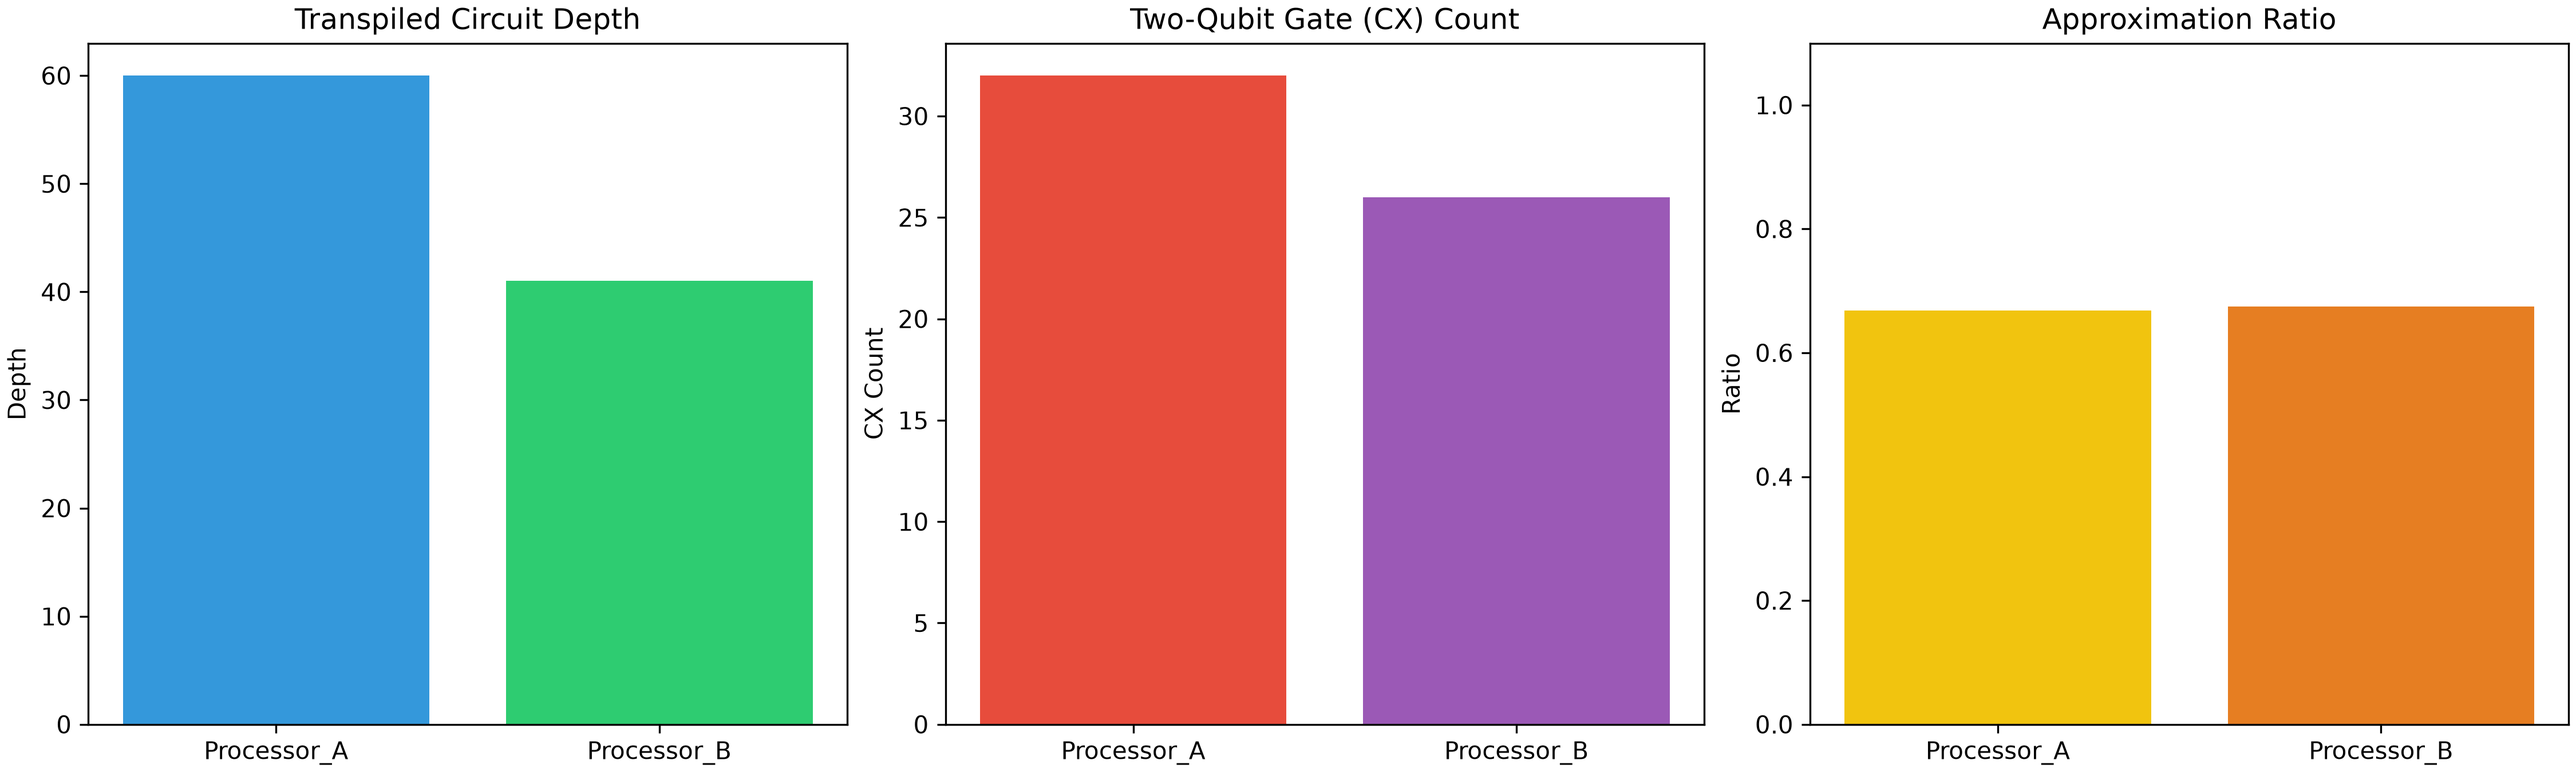
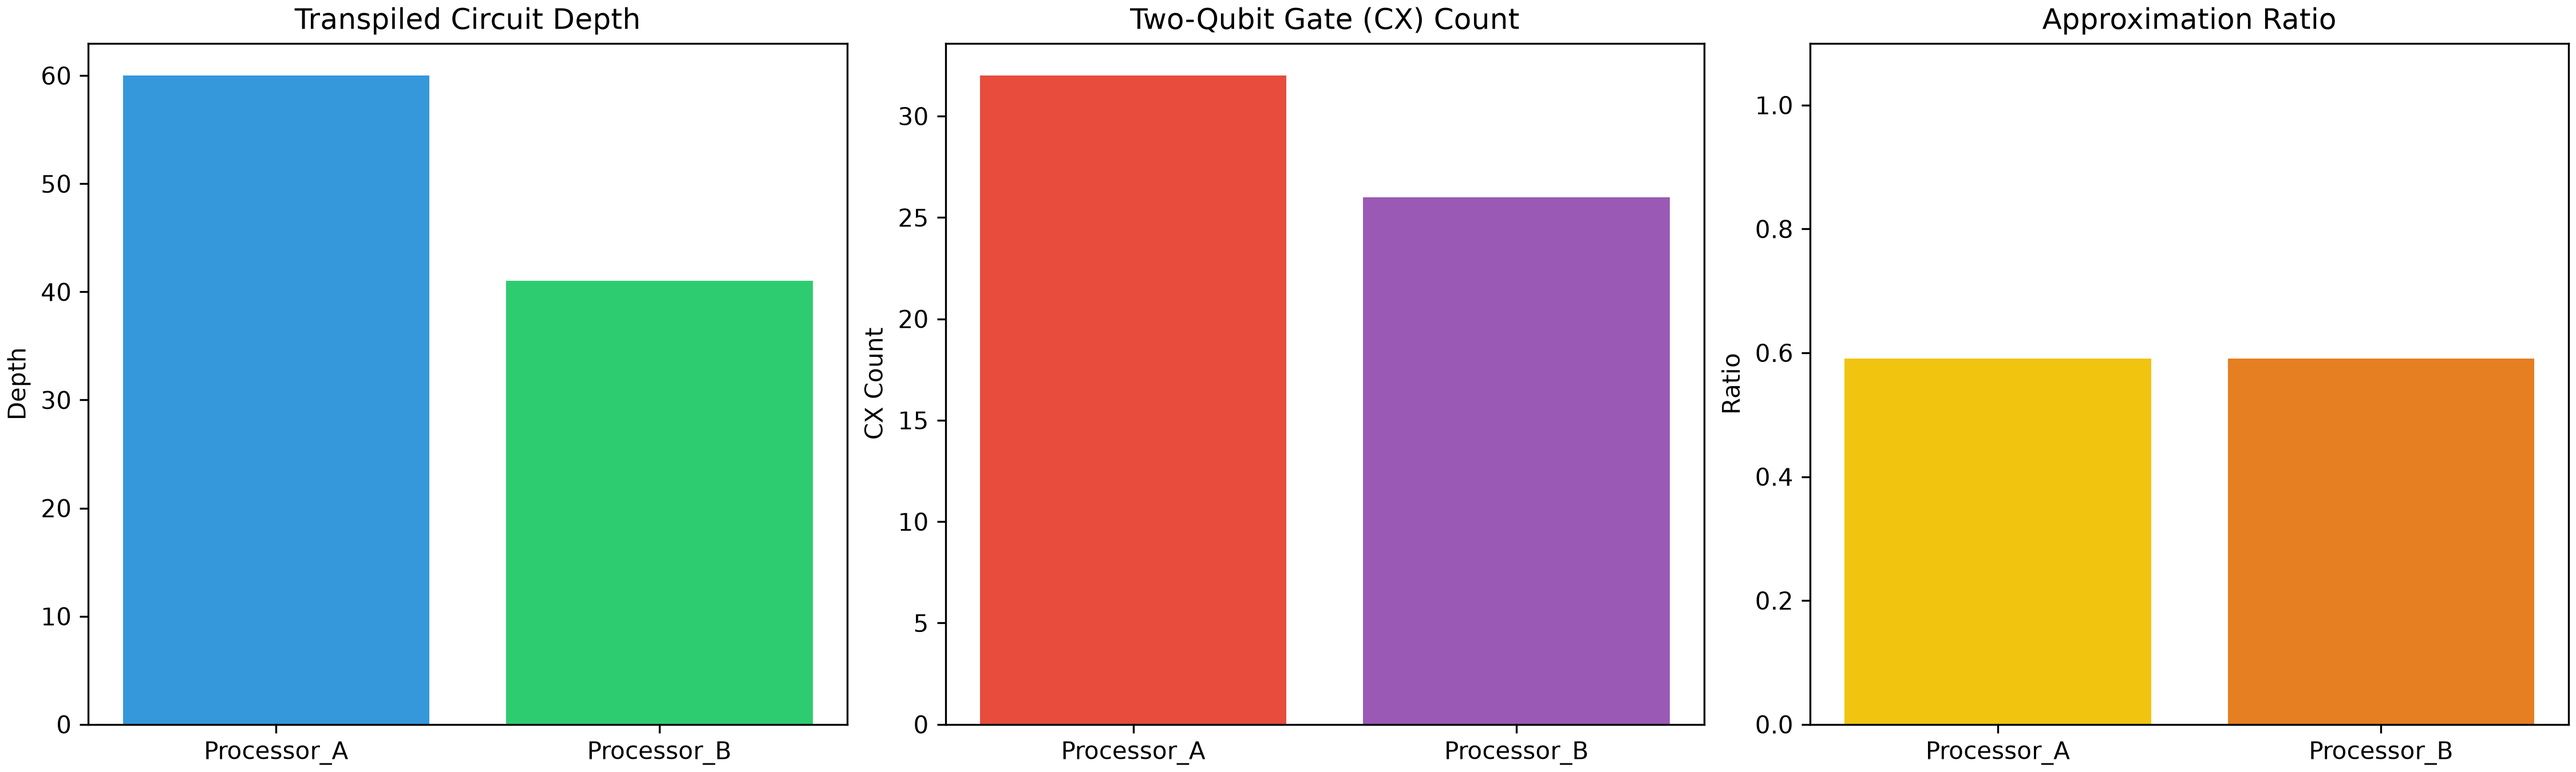
Final pre-submission polish: Inline report images and pre-executed notebook outputs

Changed region(s): [[0.7156, 0.3733, 0.9956, 0.4667]]

diff --git a/README.md b/README.md
@@ -39,7 +39,17 @@ mogumogu/
 │   └── visualization.py      # Plotting engine
 └── results/                  # Figures and benchmark tables
     ├── tables/
+    │   ├── architecture_comparison.csv
+    │   └── summary.json
     └── figures/
+        ├── processor_A_graph.png
+        ├── processor_B_graph.png
+        ├── A_vs_B_performance.png
+        ├── qaoa_convergence.png
+        └── state_distribution.png
+```
+
+---
 
 ## 4. Setup & Reproducibility
 
@@ -62,3 +72,41 @@ pip install -r requirements.txt
 
 # 4. Execute the complete automated benchmark pipeline
 python main.py
+```
+
+---
+
+## 5. Empirical Benchmark Results Summary
+
+### Exact Classical Reference Solution
+* **Brute-Force Optimal Value:** `26`
+* **Optimal Bitstring:** `11110` (Items 0, 1, 2, and 3 selected; total weight = $14 \le 15$)
+
+### Hardware Execution Comparison ($p=1$ QAOA with Readout Mitigation)
+
+| Metric | Processor A (5 Qubits) | Processor B (9 Qubits) | Delta / Impact |
+| :--- | :---: | :---: | :--- |
+| **Physical Qubits** | 5 | 9 (5 active) | Processor B maps onto a sub-graph of its 9-qubit lattice |
+| **Transpiled Circuit Depth** | 60 | 41 | **31.7% depth reduction** on Processor B |
+| **Two-Qubit (CX) Gates** | 32 | 26 | **18.75% fewer CNOTs** required on Processor B |
+| **Total Gate Operations** | 87 | 81 | 6 fewer total physical gates |
+| **Feasibility Rate** | 86.28% | 85.03% | $>85\%$ valid non-overflowing solution states |
+| **Optimal Bitstring Prob** | 2.32% | 2.17% | Probability distribution across $2^5 = 32$ basis states |
+| **Approximation Ratio** | 0.5906 | 0.5895 | Comparable quality with substantially lower gate overhead |
+
+### Visual Benchmark Figures
+
+| Processor Topologies | Hardware Metrics Comparison |
+| :---: | :---: |
+| ![Processor Topologies](results/figures/processor_A_graph.png) | ![A vs B Metrics](results/figures/A_vs_B_performance.png) |
+
+| COBYLA Optimization Convergence | Mitigated State Distribution |
+| :---: | :---: |
+| ![QAOA Convergence](results/figures/qaoa_convergence.png) | ![State Distribution](results/figures/state_distribution.png) |
+
+---
+
+## 6. Key Architectural Insights
+1. **Routing Cost Mitigation:** The $ZZ$ interaction terms in the QAOA cost layer require non-nearest-neighbor two-qubit operations. Processor B's heavy-hex-inspired topology permits layout paths with fewer routing operations, lowering the CX gate overhead from 32 to 26.
+2. **Circuit Depth Reduction:** Transpiling to Processor B reduces circuit depth from 60 to 41, decreasing exposure to decoherence and gate noise during execution on noisy intermediate-scale quantum (NISQ) systems.
+3. **Constraint Feasibility:** Both processor configurations maintain an overall feasibility rate above 85%, confirming the effectiveness of the penalty factor ($P = 12.0$) in constraining optimization within valid capacity bounds.

diff --git a/report.md b/report.md
@@ -15,6 +15,16 @@ Exact classical verification confirms the optimum selection as items $\{0, 1, 2,
 * **COBYLA Classical Outer Loop:** Rather than hardcoding parameters, we perform 50 iterations of COBYLA optimization to find variational angles $(\gamma, \beta)$ that minimize expectation cost $\langle H \rangle$.
 * **Readout Error Mitigation:** We construct an $n$-qubit calibration matrix $M$ using single-qubit response vectors and apply inverse transformation $M^{-1} P_{\text{noisy}}$ to recover state probabilities.
 
+### Visual Benchmark Highlights
+
+| Coupling Topologies | Performance Comparison |
+| :---: | :---: |
+| ![Processor A Topology](results/figures/processor_A_graph.png) | ![A vs B Metrics](results/figures/A_vs_B_performance.png) |
+
+| COBYLA Optimization Convergence | Mitigated State Distribution |
+| :---: | :---: |
+| ![Optimization Convergence](results/figures/qaoa_convergence.png) | ![State Distribution](results/figures/state_distribution.png) |
+
 ## 4. Comparative Architecture Analysis
 
 | Metric | Processor A (5 Qubits) | Processor B (9 Qubits) | Architectural Delta / Impact |
